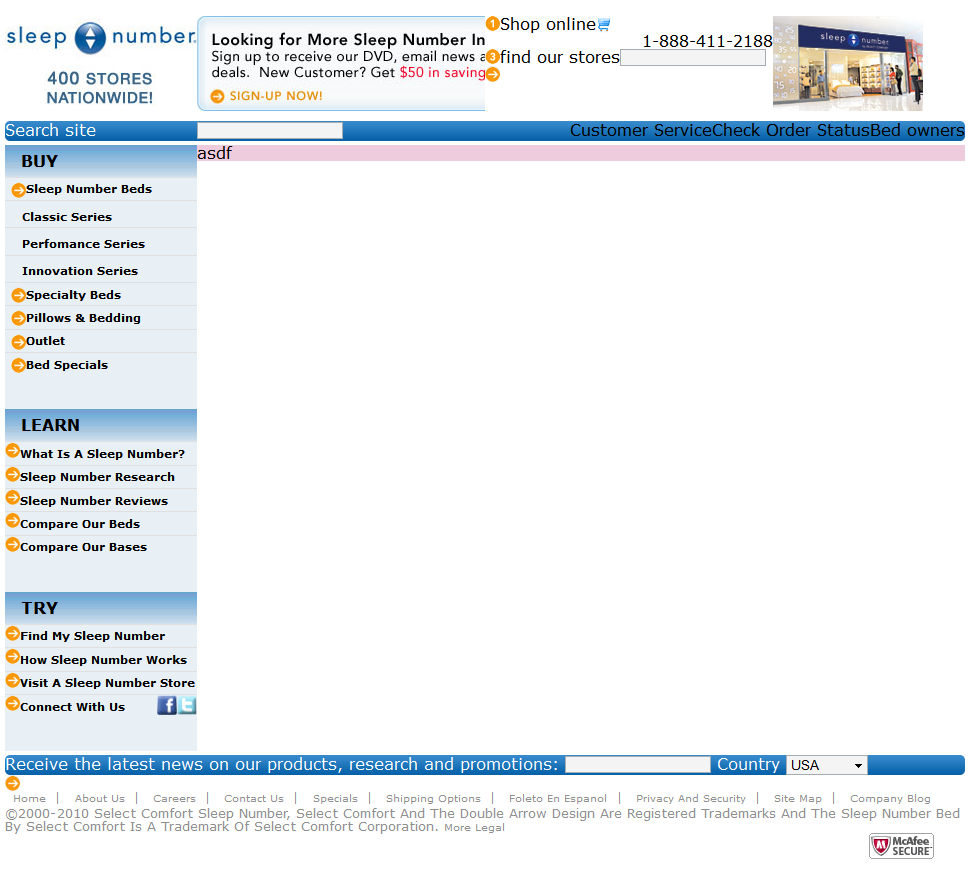
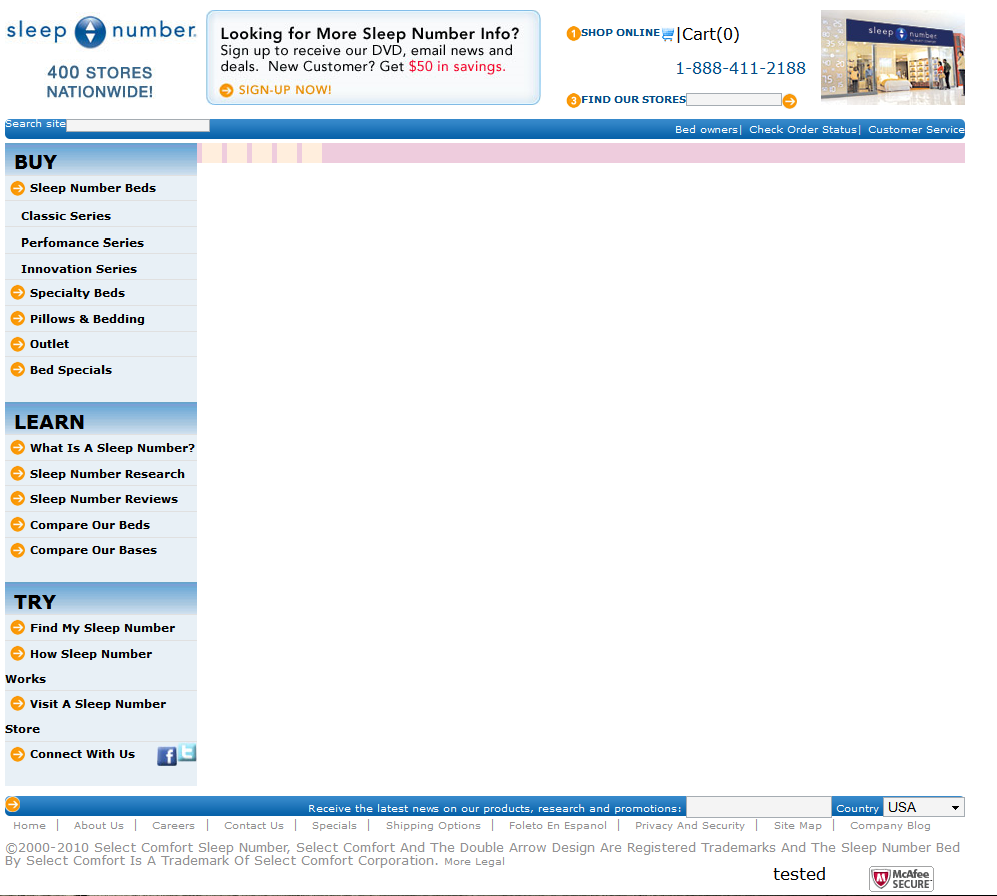
minor changes

Changed region(s): [[0.0, 0.0, 1.0, 1.0]]

diff --git a/index.html b/index.html
@@ -3,81 +3,91 @@
 <head>
 	<title>Online bed shop</title>
 	<link rel="stylesheet" type="text/css" href="style/style.css">
-	<script type="text/javascript" src="js/script.js"></script>
+	<script type="text/javascript" src="js/main.js"></script>
 </head>
 <body>
 <div id="main_container">
 	<div class="wrapper row">
 		<div id="header" class="row">
-			<a href="google.com" class="column w20" title="Go to main page"><img src="img/logo.png"></a>
-			<div class="column w30 banner"></div>
-			<div class="column w30">
-				<div class="row sprites">
-					<div class="column sprite-one_icon"></div><p class="column">Shop online</p><div class="column sprite-basket_icon"></div>
+			<a href="google.com" class="column w20 mr1" title="Go to main page"><img src="img/logo.png" alt="sleep number"></a>
+			<div class="column w35 banner mr2-5 mt-0-5"></div>
+			<div class="column w25">
+				<div class="row sprites mt7">
+					<div class="column sprite-one_icon"></div><p class="column upper_case color_blue likeH6">Shop online</p><div class="column sprite-basket_icon"></div><span>|</span>Cart(0)
 				</div>
-				<div class="row">
-					<div class="column fr">1-888-411-2188</div>
+				<div class="row mt7">
+					<div class="column fr color_blue">1-888-411-2188</div>
 				</div>
-				<div class="row sprites">
-					<div class="column sprite-three_icon"></div><p class="column">find our stores</p><input class="column" type="text"><div class="column sprite-icon_right"></div>
+				<div class="row sprites mt7">
+					<div class="column sprite-three_icon"></div><p class="column upper_case color_blue likeH6">find our stores</p><input class="column h1-2 w40" type="text"><div class="column sprite-icon_right"></div>
 				</div>
 			</div>
-			<div class="column w20 shop_picture fr"></div>
+			<div class="column w15 shop_picture fr"></div>
 		</div>
-		<div class="row blue_stripe pt2">
-			<p class="column w20 color_white">Search site</p>
-			<input type="text" class="column">
-			<div class="column right_arrow"></div>
-			<div class="column fr">Bed owners</div>
-			<div class="column fr">Check Order Status</div>
-			<div class="column fr">Customer Service</div>
+		<div class="row blue_stripe sprites mt0-5">
+			<p class="column color_white mr1">Search site</p>
+			<input type="text" class="column h1-2 w15 mr1">
+			<div class="column sprite-icon_right"></div>
+			<p class="column fr">
+				<a href="google.com" class="color_white pl15">Bed owners</a><span class="color_white">|</span>
+				<a href="google.com" class="color_white pl15">Check Order Status</a><span class="color_white">|</span>
+				<a href="google.com" class="color_white pl15">Customer Service</a>
+			</p>
 		</div>
 		<div class="row pt5">
 			<div class="column w20">
 				<div class="row left_menu sprites">
-					<h4 class="upper_case blue_menu_stripe pl5">Buy</h4>
+					<h4 class="upper_case blue_menu_stripe pl05em">Buy</h4>
 					<ul>
 						<li>
-						<div class="ml5 column sprite-icon_right"></div>
-						<a href="google.com">Sleep number beds</a>
+						<div class="mtl035_05 column sprite-icon_right"></div>
+						<a class="ml13 dbl" href="google.com">Sleep number beds</a>
 							<ul>
 								<li class="upper_case pl10"><a href="google.com">Classic series</a></li>
 								<li class="upper_case pl10"><a href="google.com">Perfomance series</a></li>
 								<li class="upper_case pl10"><a href="google.com">Innovation series</a></li>
 							</ul>
 						</li>
-						<li><div class="ml5 column sprite-icon_right"></div><a href="google.com">Specialty beds</a></li>
-						<li><div class="ml5 column sprite-icon_right"></div><a href="google.com">Pillows & bedding</a></li>
-						<li><div class="ml5 column sprite-icon_right"></div><a href="google.com">Outlet</a></li>
-						<li><div class="ml5 column sprite-icon_right"></div><a href="google.com">Bed specials</a></li>
+						<li><div class="mtl035_05 column sprite-icon_right"></div><a class="ml13 dbl" href="google.com">Specialty beds</a></li>
+						<li><div class="mtl035_05 column sprite-icon_right"></div><a class="ml13 dbl" href="google.com">Pillows & bedding</a></li>
+						<li><div class="mtl035_05 column sprite-icon_right"></div><a class="ml13 dbl" href="google.com">Outlet</a></li>
+						<li><div class="mtl035_05 column sprite-icon_right"></div><a class="ml13 dbl" href="google.com">Bed specials</a></li>
 					</ul>
-					<h4 class="upper_case blue_menu_stripe pl5">Learn</h4>
+					<h4 class="upper_case blue_menu_stripe pl05em">Learn</h4>
 					<ul>
-						<li><div class="column sprite-icon_right"></div><a href="google.com">What is a sleep number?</a></li>
-						<li><div class="column sprite-icon_right"></div><a href="google.com">Sleep number research</a></li>
-						<li><div class="column sprite-icon_right"></div><a href="google.com">Sleep number reviews</a></li>
-						<li><div class="column sprite-icon_right"></div><a href="google.com">Compare our beds</a></li>
-						<li><div class="column sprite-icon_right"></div><a href="google.com">Compare our bases</a></li>
+						<li><div class="mtl035_05 column sprite-icon_right"></div><a class="ml13 dbl" href="google.com">What is a sleep number?</a></li>
+						<li><div class="mtl035_05 column sprite-icon_right"></div><a class="ml13 dbl" href="google.com">Sleep number research</a></li>
+						<li><div class="mtl035_05 column sprite-icon_right"></div><a class="ml13 dbl" href="google.com">Sleep number reviews</a></li>
+						<li><div class="mtl035_05 column sprite-icon_right"></div><a class="ml13 dbl" href="google.com">Compare our beds</a></li>
+						<li><div class="mtl035_05 column sprite-icon_right"></div><a class="ml13 dbl" href="google.com">Compare our bases</a></li>
 					</ul>
-					<h4 class="upper_case blue_menu_stripe pl5">Try</h4>
+					<h4 class="upper_case blue_menu_stripe pl05em">Try</h4>
 					<ul>
-						<li><div class="column sprite-icon_right"></div><a href="google.com">Find my sleep number</a></li>
-						<li><div class="column sprite-icon_right"></div><a href="google.com">How sleep number works</a></li>
-						<li><div class="column sprite-icon_right"></div><a href="google.com">Visit a sleep number store</a></li>
-						<li><div class="column sprite-icon_right"></div><a href="google.com">connect with us</a><div class="column sprite-twitter_big_icon fr"></div><div class="column sprite-facebook_big_icon fr"></div></li>
+						<li><div class="mtl035_05 column sprite-icon_right"></div><a class="ml13 dbl" href="google.com">Find my sleep number</a></li>
+						<li><div class="mtl035_05 column sprite-icon_right"></div><a class="ml13 dbl" href="google.com">How sleep number works</a></li>
+						<li><div class="mtl035_05 column sprite-icon_right"></div><a class="ml13 dbl" href="google.com">Visit a sleep number store</a></li>
+						<li><div class="mtl035_05 column sprite-icon_right"></div><a class="ml13 dbl" href="google.com">connect with us</a><div class="column sprite-twitter_big_icon fr"></div><div class="mtl035_05 column sprite-facebook_big_icon fr"></div></li>
 					</ul>
 				</div>
 			</div>
-			<div class="column w80">asdf</div>
+			<div class="column w80">
+				<div id="parent_test">
+					<div style="height:20px;width:20px;background:#fed;margin-left:5px; float:left"></div>
+					<div style="height:20px;width:20px;background:#fed;margin-left:5px; float:left"></div>
+					<div style="height:20px;width:20px;background:#fed;margin-left:5px; float:left"></div>
+					<div style="height:20px;width:20px;background:#fed;margin-left:5px; float:left"></div>
+					<div style="height:20px;width:20px;background:#fed;margin-left:5px; float:left"></div>
+				</div>
+			</div>
 		</div>
-			<div class="row blue_stripe mt5 sprites">
-				<p class="color_white">Receive the latest news on our products, research and promotions: <input type="text"> Country 
+			<div class="row blue_stripe mt1 sprites">
+				<div class="column fr sprite-icon_right"></div>
+				<p class="column color_white fr">Receive the latest news on our products, research and promotions: <input type="text"> Country 
 					<select>
 						<option>USA</option>
 						<option>UK</option>
 						<option>Germany</option>
 					</select>
-					<div class="column sprite-icon_right"></div>
 				</p>
 			</div>
 		</div>
@@ -94,8 +104,11 @@
 				<a class="prl5" href="google.com">Site map</a><span>|</span>
 				<a class="prl5" href="google.com">Company blog</a>
 			</div>
-			<div class="footer mt5 column w100">&copy;2000-2010 select comfort sleep number, select comfort and the double arrow design are registered trademarks and the sleep number bed by select comfort is a trademark of select comfort corporation. <a href="google.com">More legal</a></div>
-			<div class="column w10 fr"><a href="google.com"><img src="img/mcaffe_icon.png" title="Security"></a></div>
+			<div class="footer mt1 column w100">&copy;2000-2010 select comfort sleep number, select comfort and the double arrow design are registered trademarks and the sleep number bed by select comfort is a trademark of select comfort corporation. <a href="google.com">More legal</a></div>
+			<div class="column w10 fr"><a href="google.com"><img src="img/mcaffe_icon.png" title="Security" alt="mcafee"></a></div>
+			<div class="column w100">
+			<div class="column w10 fr">tested</div>
+			</div>
 		</div>
 </div>
 </body>

diff --git a/style/style.css b/style/style.css
@@ -56,10 +56,17 @@ table {
 h1, h2, h3, h4, h5, h6, p, span, div, li, ol, ul, a{
 	font-family: verdana, sans-serif;
 }
+input, select{
+	border: 1px solid #819ebc;
+}
 h4{
 	/*padding: 1em 0 0.3em 1em;*/
-	font: bold 1em verdana,sans-serif;
+	font: bold 1.2em verdana,sans-serif;
 	line-height: 2em;
+}
+.likeH6{
+	font: bold 0.65em verdana,sans-serif;
+	/*line-height: 2em;*/
 }
 html,body,#main_container{
 	height: 100%;
@@ -73,11 +80,20 @@ html,body,#main_container{
 a{
 	text-decoration: none;
 }
+.h1-2{
+	height: 1.2em;
+}
+.h80{
+	height: 80%;
+}
 .color_white{
 	color: #ffffff;
 }
+.color_blue{
+	color: #044d85;
+}
 #header{
-	padding: 1em 0 0.6em;
+	padding: 1% 0 0;
 }
 .row{
 	width: 100%;
@@ -96,7 +112,7 @@ a{
     content: ".";
     display: block;
     height: 0;
-    margin-bottom: 3em;
+    margin-bottom: 1.8em;
     visibility: hidden;
 }
 .wrapper{
@@ -117,6 +133,7 @@ a{
 .column.w15{width: 15%;}
 .column.w20{width: 20%;}
 .column.w30{width: 30%;}
+.column.w35{width: 35%;}
 .column.w40{width: 40%;}
 .column.w50{width: 50%;}
 .column.w60{width: 60%;}
@@ -132,6 +149,12 @@ a{
 .pt2{
 	padding-top: 0.1em;
 }
+.pad5{
+	padding: 1em;
+}
+.padBoth{
+	padding: 0 0.5em;
+}
 .pt5{
 	padding-top: 0.25em;
 }
@@ -141,15 +164,35 @@ a{
 .pl10{
 	padding: 0.35em 0 0 1.5em;
 }
-.pl5{
-	padding: 0 0 0 1em;
+.pl05em{
+	padding: 0 0 0 0.5em;
 }
-.ml5{
+.mtl035_05{
 	margin: 0.35em 0 0 0.5em;
 }
-
-.mt5{
-	margin-top: 0.25em;
+.ml2-5{
+	margin-left: 2.5%;
+}
+.ml13{
+	margin-left: 13%;
+}
+.mr2-5{
+	margin-right: 2.5%;
+}
+.mr1{
+	margin-right: 1%;
+}
+.mt1{
+	margin-top: 1%;
+}
+.mt0-5{
+	margin-top: 0.5%;
+}
+.mt-0-5{
+	margin-top: -0.5%;
+}
+.mt7{
+	margin-top: 7%;
 }
 .banner{
 	background: url(../img/banner.png) no-repeat;
@@ -169,27 +212,27 @@ a{
 	background: url(../img/blue_stripe.png) repeat-x;
 	height: 20px;
 	border-radius: 5px;
+	padding: 0.4% 4% 0.4% 1%;
+}
+.blue_stripe p{
+	line-height: 1em;
+	font-size: 0.65em;
 }
 .left_menu{
 	height: 100%;
 	background: #e8f0f6;
 }
-input{
-	height: 17px;
-	vertical-align: center;
-}
 .left_menu ul li{
 	border-top: 1px solid #e0e0e0;
 	font-size: 0.7em;
 	font-weight: bold;
-	line-height: 2em;
+	line-height: 2.2em;
 	text-transform: capitalize;
 }
 .left_menu ul li ul li{
-	line-height: inherit;
+	line-height: 1.9em;
 	font-size: inherit;
 	font-weight: bold;
-	
 	text-transform: capitalize;
 }
 .footer, .footer a{
@@ -233,3 +276,6 @@ input{
 .sprite-twitter_big_icon{ background-position: 0 -1538px !important; width: 20px; height: 20px; } 
 .sprite-twitter_icon{ background-position: 0 -1608px !important; width: 10px; height: 12px; } 
 
+.dbl{
+	display: block;
+}
